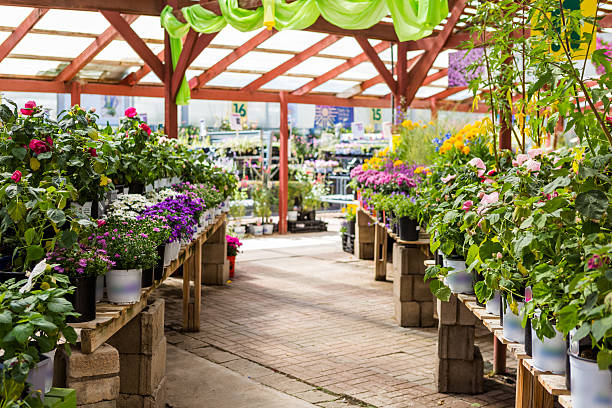
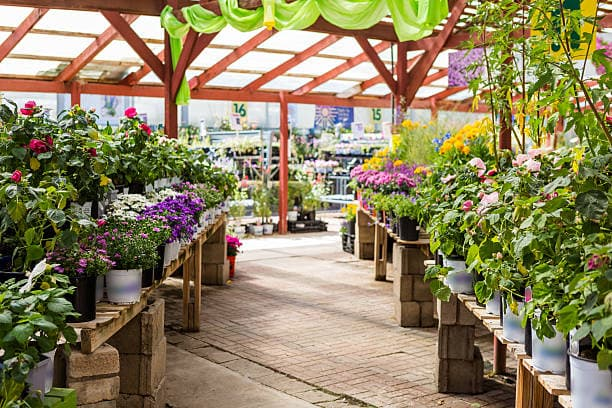
perf(images): optimize image formats

diff --git a/src/widgets/FirstOrderForm/index.tsx b/src/widgets/FirstOrderForm/index.tsx
@@ -32,7 +32,7 @@ export const FirstOrderForm = () => {
                         5% off on the first order
                     </Title>
                     <Group gap={32}>
-                        <Image maw={748} mah={360} src='/images/off_price_form_image@2x.png' />
+                        <Image maw={748} mah={360} src='/images/off_price_form_image@2x.webp' />
                         <form
                             style={{ flex: '1' }}
                             onSubmit={form.onSubmit(

diff --git a/src/widgets/IndexHero/index.tsx b/src/widgets/IndexHero/index.tsx
@@ -6,7 +6,7 @@ import { Hero } from '@/shared/ui';
 export const IndexHero = () => {
     return (
         <Box component='section' mb={80}>
-            <Hero src='/images/hero@2x.jpg' title={'Amazing Discounts\non Garden Products!'}>
+            <Hero src='/images/hero@2x.webp' title={'Amazing Discounts\non Garden Products!'}>
                 <Button w='fit-content' size='xl' miw={218} component={Link} to='/sales'>
                     Check out
                 </Button>

diff --git a/src/pages/NotFoundPage/ui/index.tsx b/src/pages/NotFoundPage/ui/index.tsx
@@ -10,7 +10,7 @@ export default function NotFoundPage() {
             <Container my={80}>
                 <Stack m='auto' maw={690}>
                     <Stack ta='center' gap={32} mb={32}>
-                        <Image src='/images/404.png' alt='Not Found' />
+                        <Image src='/images/404.webp' alt='Not Found' />
                         <Title fz={64} lh='70px'>
                             Page Not Found
                         </Title>
